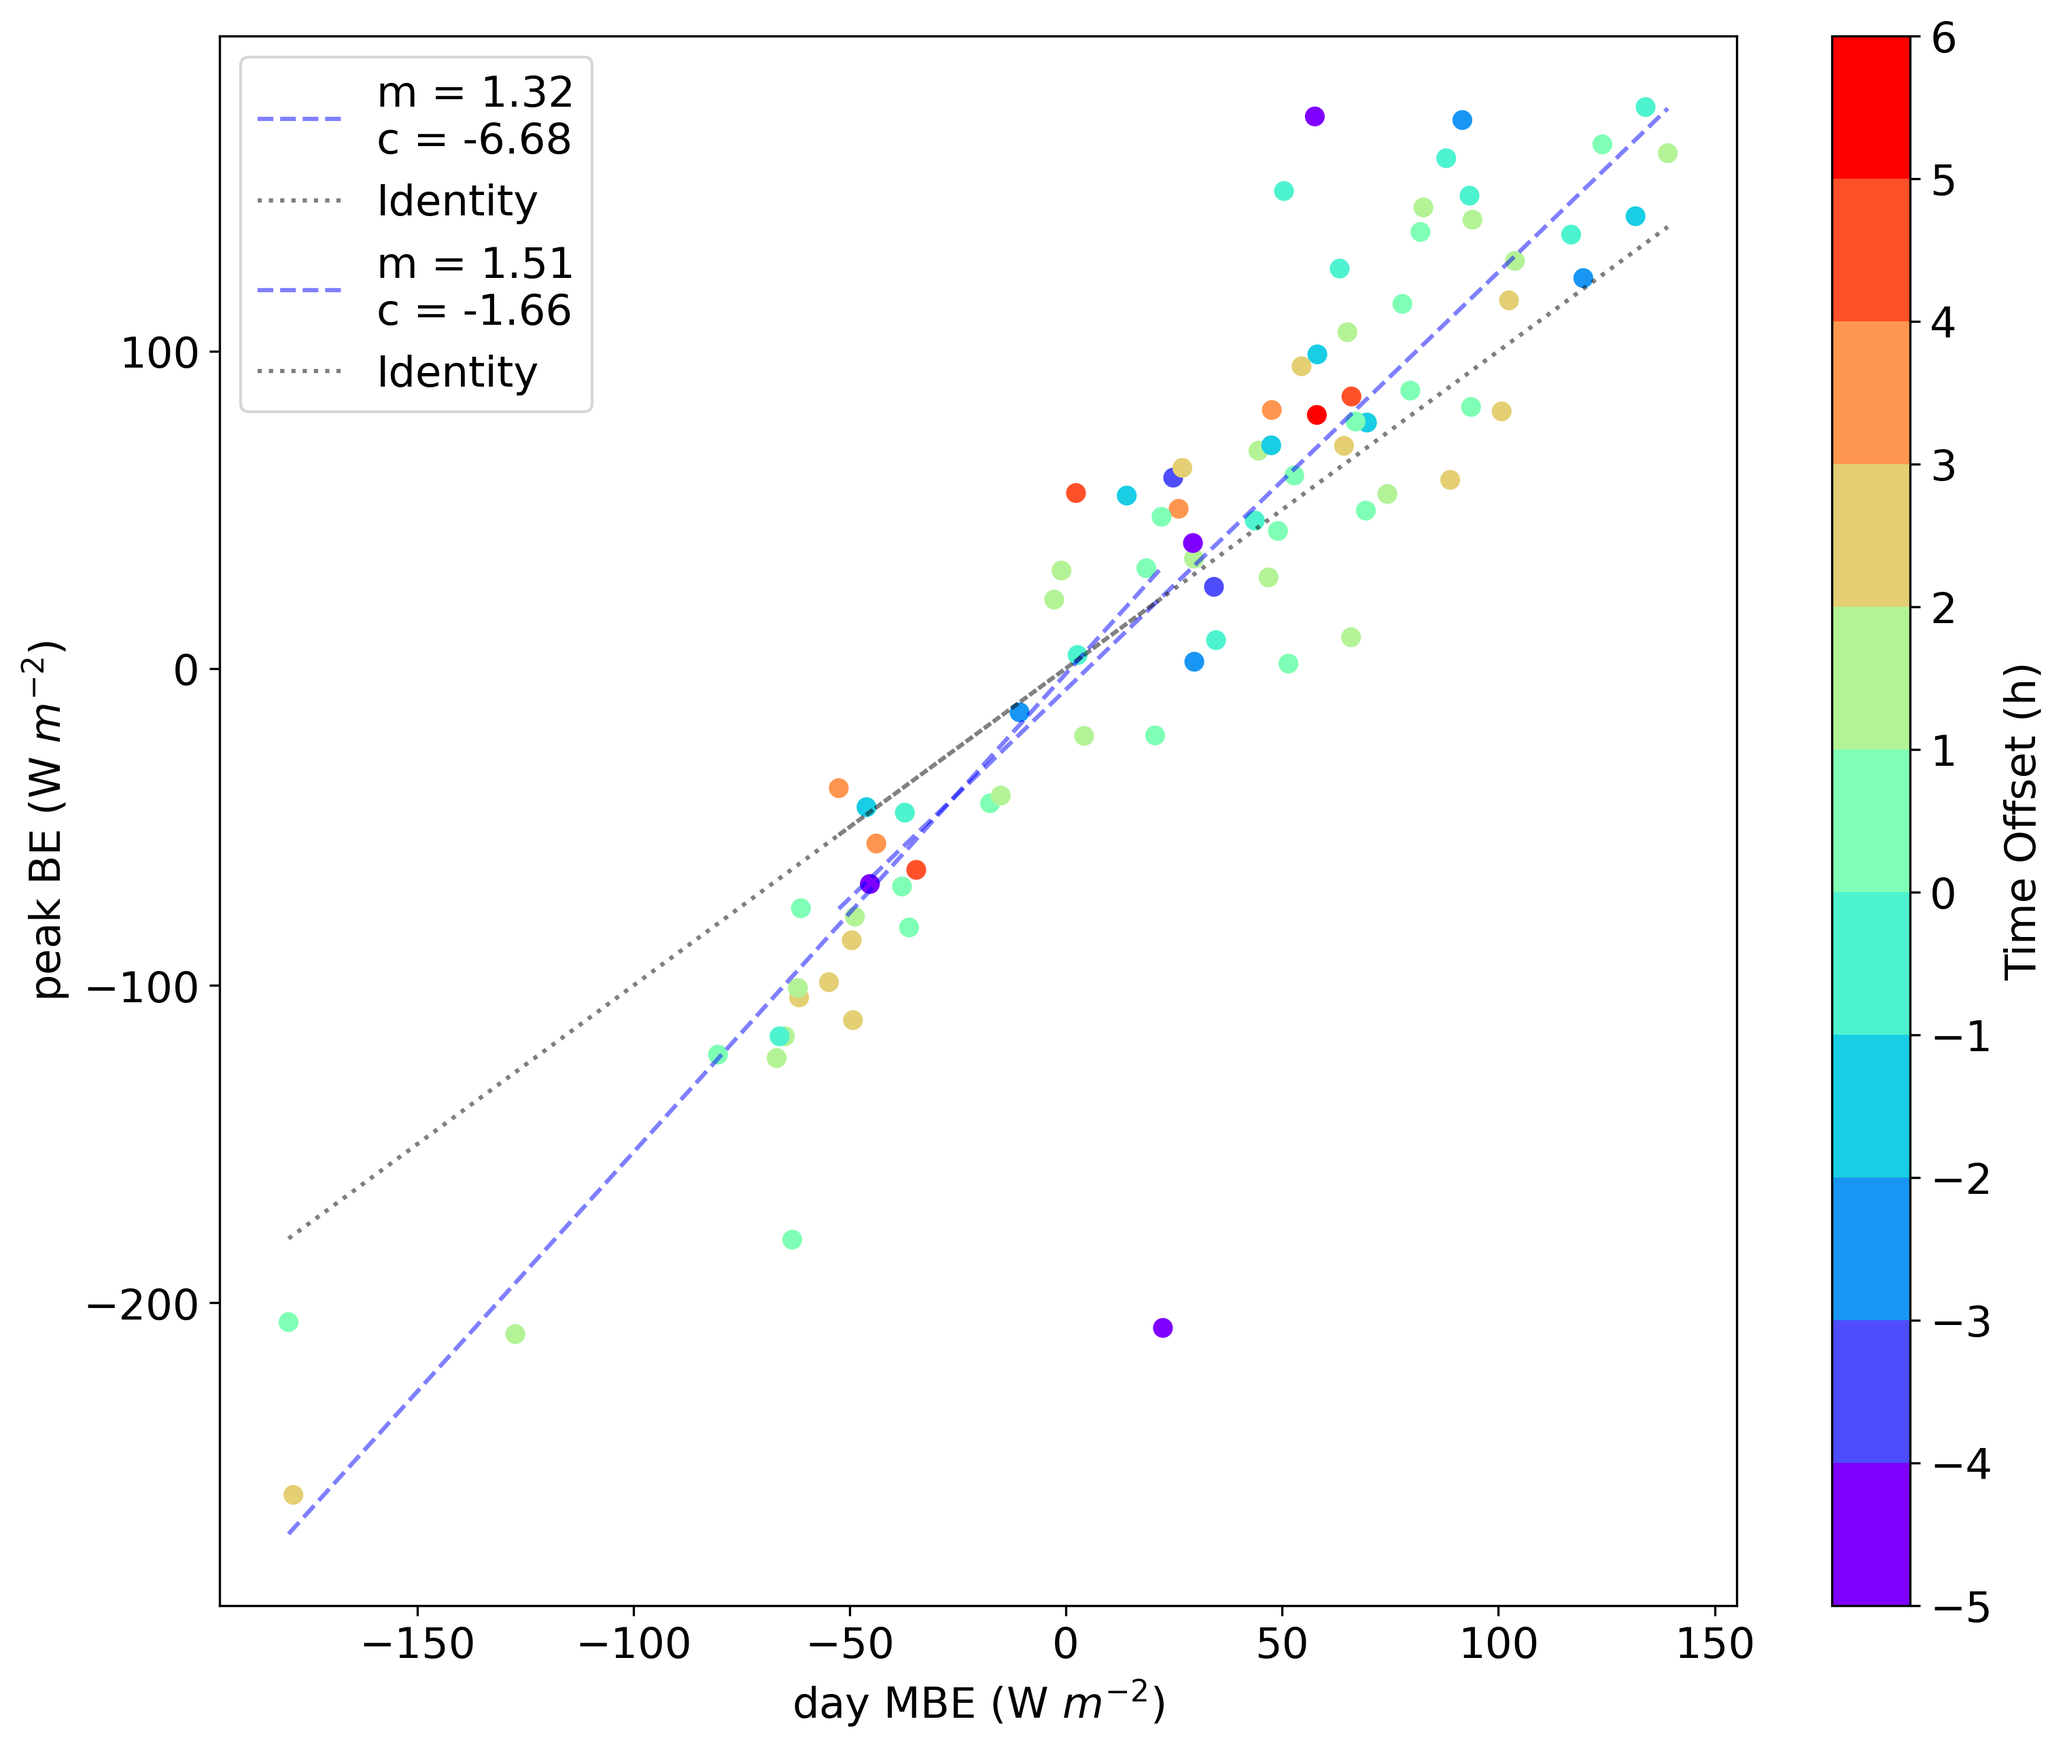
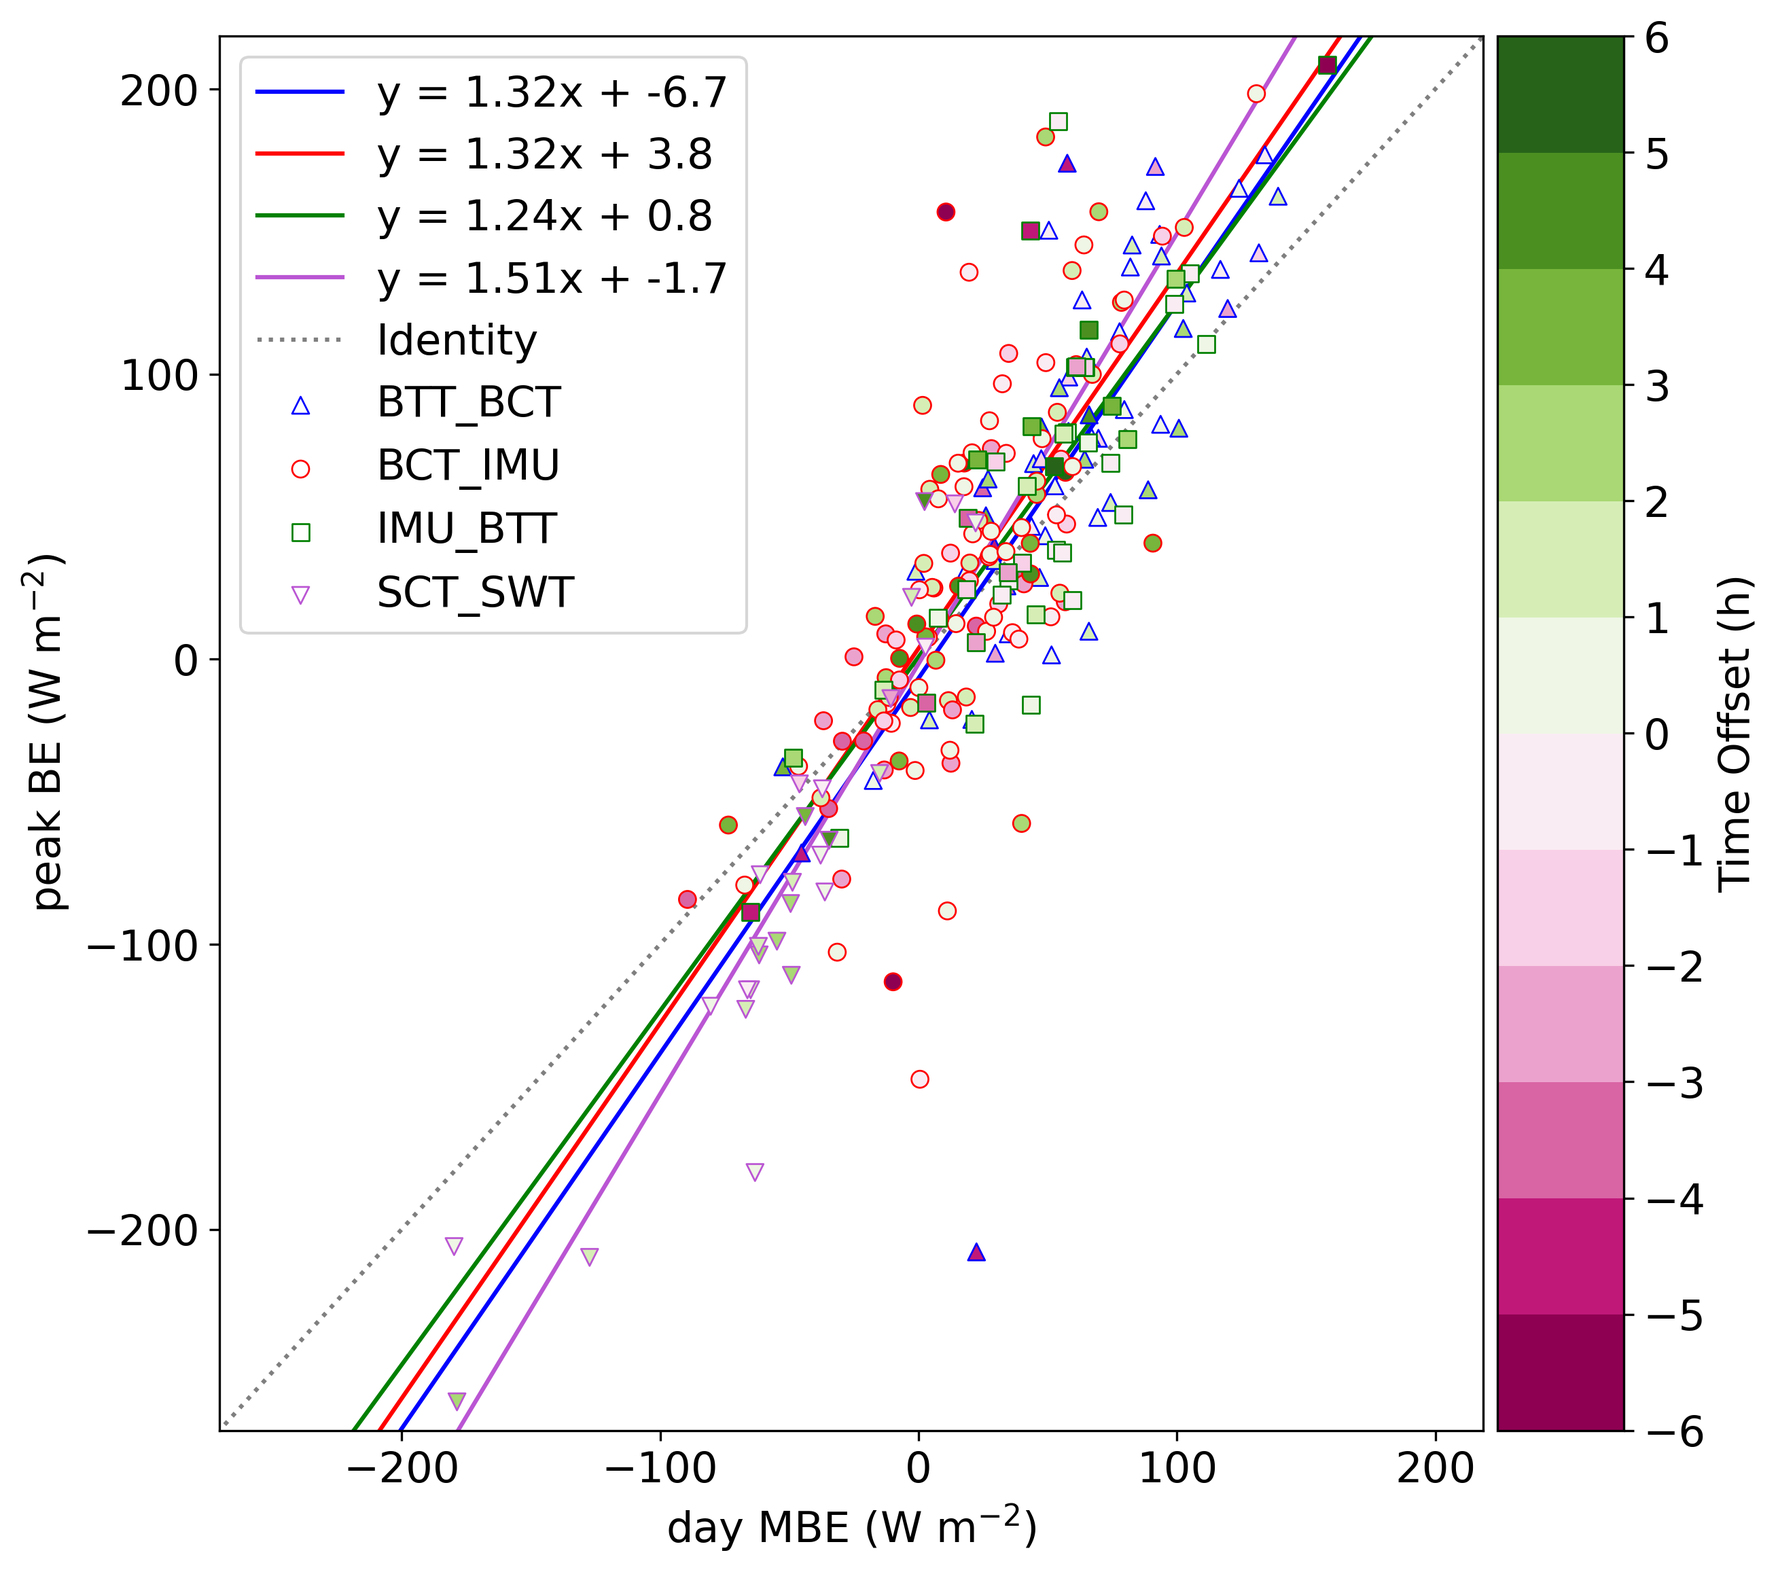
finalise peak plot

diff --git a/scint_plots/peak_flux_performance/peak_funs.py b/scint_plots/peak_flux_performance/peak_funs.py
@@ -108,68 +108,79 @@ def peak_analysis_plot(peak_path_dict, average, save_path):
     """
 
     # get extreme vals
-
     dt_mins = []
     dt_maxs = []
-
     ax_mins = []
     ax_maxs = []
-
     for pair_id in peak_path_dict:
         peak_df = peak_path_dict[pair_id]
-
         dt_mins.append(peak_df.time_delta_qh.min())
         dt_maxs.append(peak_df.time_delta_qh.max())
-
         ax_mins.append(peak_df.MBE_qh_day.min())
         ax_mins.append(peak_df.value_delta_qh.min())
-
         ax_maxs.append(peak_df.MBE_qh_day.max())
         ax_maxs.append(peak_df.value_delta_qh.max())
 
     cbar_min = min(dt_mins)
     cbar_max = max(dt_maxs)
-
     ax_min = min(ax_mins) - 10
     ax_max = max(ax_maxs) + 10
 
+    # ToDo: move this and every version of this into a lookup
+    colour_dict = {'BCT_IMU': 'red', 'SCT_SWT': 'mediumorchid', 'IMU_BTT': 'green', 'BTT_BCT': 'blue'}
+    marker_dict = {'BCT_IMU': 'o', 'SCT_SWT': 'v', 'IMU_BTT': 's', 'BTT_BCT': '^'}
 
-    print('end')
+    # plt.figure(figsize=(10, 8))
+    fig, ax = plt.subplots(1, 2, figsize=(9, 8), gridspec_kw={'width_ratios': [1, 0.1]})
 
-    plt.figure(figsize=(12, 10))
-
-    cmap = cm.get_cmap('rainbow')
+    cmap = cm.get_cmap('PiYG')
 
     bounds = np.linspace(cbar_min, cbar_max, int(np.abs(cbar_max) + np.abs(cbar_min) + 1))
     norm = mpl.colors.BoundaryNorm(bounds, cmap.N)
 
-    for path_id in peak_path_dict:
-        peak_df = peak_path_dict[path_id]
+    # keep track of pair_id's included
+    pair_ids = []
 
-        plt.scatter(peak_df.MBE_qh_day, peak_df.value_delta_qh, c=peak_df.time_delta_qh, cmap=cmap, norm=norm)
+    for pair_id in peak_path_dict:
+        peak_df = peak_path_dict[pair_id]
+
+        ye = ax[0].scatter(peak_df.MBE_qh_day, peak_df.value_delta_qh, c=peak_df.time_delta_qh, cmap=cmap, norm=norm,
+                           edgecolors=colour_dict[pair_id],
+                           marker=marker_dict[pair_id],
+                           label=pair_id, zorder=3, linewidth=0.65)
 
         slope, intercept, r_value, p_value, std_err = linregress(peak_df.MBE_qh_day, peak_df.value_delta_qh)
-        string_for_leg = 'm = ' + str(round(slope, 2)) + '\n' + 'c = ' + str(round(intercept, 2))
+        string_for_leg = 'y = ' + str(round(slope, 2)) + 'x + ' + str(round(intercept, 1))
 
-        plt.plot(np.unique(peak_df.MBE_qh_day),
-                 np.poly1d(np.polyfit(peak_df.MBE_qh_day, peak_df.value_delta_qh, 1))(np.unique(peak_df.MBE_qh_day)),
-                 color='blue', linestyle='--', alpha=0.5, label=string_for_leg)
+        ax[0].plot(np.array([-1000, 1000]), slope * np.array([-1000, 1000]) + intercept, color=colour_dict[pair_id],
+                   label=string_for_leg, zorder=2)
 
-        # ToDo: remove from loop and only do once
-        plt.plot([min(peak_df.MBE_qh_day), max(peak_df.MBE_qh_day)], [min(peak_df.MBE_qh_day), max(peak_df.MBE_qh_day)],
-                 color='k', linestyle=':', alpha=0.5, label='Identity')
+        pair_ids.append(pair_id)
 
-    cbar = plt.colorbar()
+    ax[0].plot([-1000, 1000], [-1000, 1000], color='k', linestyle=':', alpha=0.5, label='Identity', zorder=1)
+
+    cax = ax[1]
+    cbar = fig.colorbar(mappable=ye, cax=cax)
     cbar.set_ticks(np.arange(cbar_min, cbar_max + 1, step=1))
 
     cbar.ax.set_ylabel('Time Offset (h)')
-    plt.xlabel('day MBE (W $m^{-2}$)')
-    plt.ylabel('peak BE (W $m^{-2}$)')
+    ax[0].set_xlabel('day MBE (W m$^{-2}$)')
+    ax[0].set_ylabel('peak BE (W m$^{-2}$)')
 
-    # plt.xlim(ax_min, ax_max)
-    # plt.ylim(ax_min, ax_max)
+    ax[0].set_xlim(ax_min, ax_max)
+    ax[0].set_ylim(ax_min, ax_max)
 
-    plt.legend()
+    handles, labels = ax[0].get_legend_handles_labels()
+
+    for i, label in enumerate(labels):
+        if label in pair_ids:
+            # set scatter points to have black facecolour
+            handles[i].set_facecolor('white')
+
+    ax[0].legend(handles=handles, loc='best')
+
+    fig.tight_layout()
+    plt.subplots_adjust(wspace=0.02, hspace=0.02)
 
     # plt.show()
     plt.savefig(save_path + str(average) + '_peak.png', bbox_inches='tight', dpi=300)

diff --git a/scint_plots/peak_flux_performance/peak_main.py b/scint_plots/peak_flux_performance/peak_main.py
@@ -14,8 +14,8 @@ from scint_plots.scint_seasonality import seasonality_funs
 
 # User inputs
 # scint_path = 15
-# scint_path_list = [11, 12, 13, 15]
-scint_path_list = [11, 15]
+scint_path_list = [11, 12, 13, 15]
+# scint_path_list = [11, 15]
 var_list = ['QH', 'kdown']
 obs_average = 60
 
